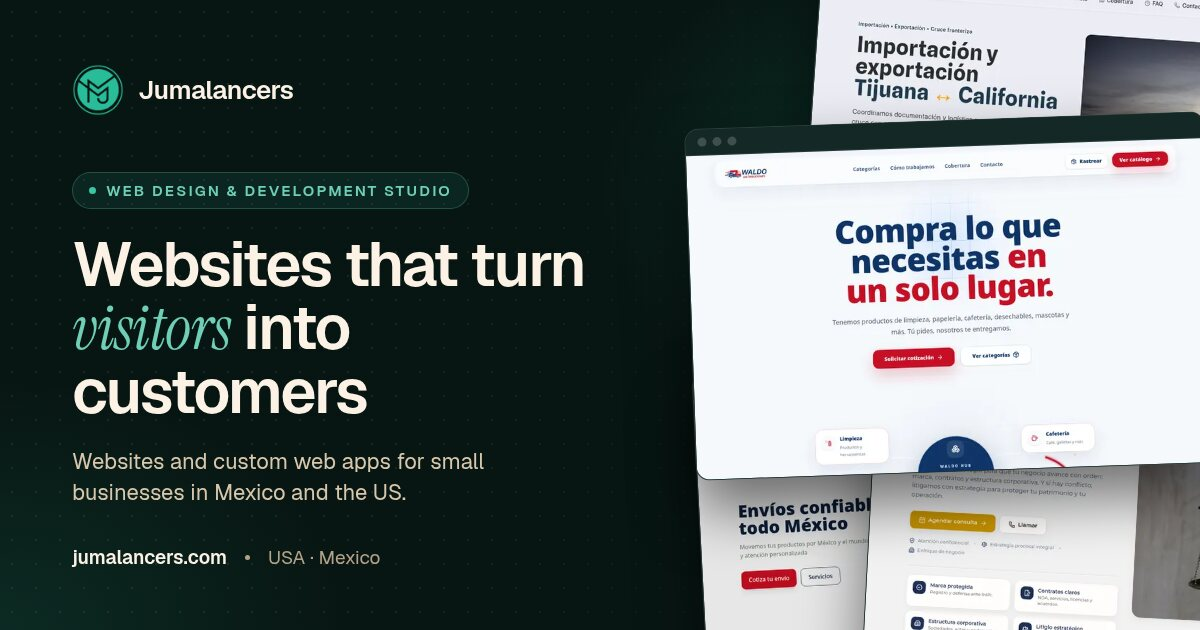
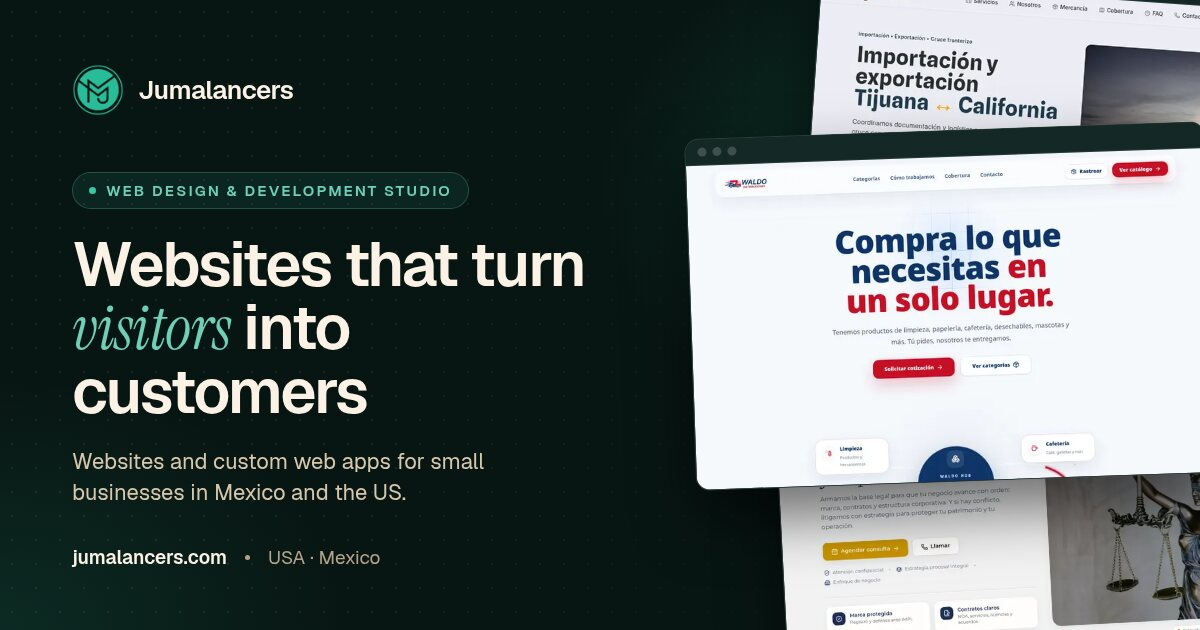
Quitar TodoMex del portafolio, casos de estudio e imagen para compartir

Changed region(s): [[0.555, 0.6635, 1.0, 1.0], [0.555, 0.0, 1.0, 0.3016], [0.6783, 0.3317, 0.8942, 0.6333]]

diff --git a/src/data/pages/services.js b/src/data/pages/services.js
@@ -125,7 +125,7 @@ export const SERVICES = {
 
   landing: {
     icon: "MousePointerClick",
-    project: "todomex",
+    project: "jaka",
     es: {
       metaTitle: "Landing pages para campañas de Google y Meta | Jumalancers",
       metaDesc:
@@ -167,7 +167,7 @@ export const SERVICES = {
       ],
       price:
         "La landing page es el plan Starter: $599 USD, precio fijo, con dominio, hosting y SSL del primer año. Renovación desde el segundo año: $99 USD al año con 2 cambios incluidos.",
-      projectNote: "Sitio de paquetería con un formulario de envío por pasos y contacto directo por WhatsApp.",
+      projectNote: "Sitio para una empresa de importación y exportación que lleva al visitante directo a pedir su cotización, con un formulario que llega por correo.",
       faqs: [
         {
           q: "¿Qué diferencia hay entre una landing page y una página web?",
@@ -224,7 +224,7 @@ export const SERVICES = {
       ],
       price:
         "A landing page is the Starter plan: $599 USD, fixed price, with domain, hosting and SSL for the first year. Renewal from the second year: $99 USD a year with 2 updates included.",
-      projectNote: "Parcel delivery website with a step-by-step shipping form and direct WhatsApp contact.",
+      projectNote: "Website for an import/export company that takes visitors straight to a quote request, with a form delivered by email.",
       faqs: [
         {
           q: "What's the difference between a landing page and a website?",
@@ -813,4 +813,4 @@ export const PAGE_UI = {
 };
 
 // Servicio relacionado de cada proyecto (para enlazar casos ↔ servicios).
-export const PROJECT_SERVICE = { jmyan: "bilingual", jaka: "websites", waldo: "systems", todomex: "landing" };
+export const PROJECT_SERVICE = { jmyan: "bilingual", jaka: "websites", waldo: "systems" };

diff --git a/src/data/projects.js b/src/data/projects.js
@@ -152,34 +152,7 @@ export const PROJECTS = [
       en: ["Product catalog with categories and search", "Protected admin dashboard", "Quotes, orders and inventory", "Clients, suppliers and expenses", "Barcode labels and order tracking"],
     },
   },
-  {
-    id: "todomex",
-    name: "TodoMex Paquetería",
-    url: "https://todomexpaqueteria.com",
-    market: "mx",
-    industry: { es: "Paquetería nacional", en: "Parcel delivery" },
-    location: "Tijuana, BC",
-    featured: true,
-    kind: "site",
-    stack: ["HTML", "Tailwind CSS", "JavaScript", "EmailJS"],
-    year: 2025,
-    before: {
-      es: "No tenían página web.",
-      en: "They didn't have a website.",
-    },
-    result: {
-      es: "Desde que tienen su página, más clientes los contactan directamente desde el sitio y por correo.",
-      en: "Since the website launched, more customers contact them directly through the site and by email.",
-    },
-    summary: {
-      es: "Sitio corporativo para una paquetería con envíos a todo México, con un cotizador por pasos para que el cliente solicite su envío en segundos.",
-      en: "Corporate website for a parcel company shipping across Mexico, with a step-by-step quote form so customers can request a shipment in seconds.",
-    },
-    features: {
-      es: ["Formulario de envío por pasos", "Contacto directo por WhatsApp", "Servicios de paquetería explicados", "Diseño responsivo"],
-      en: ["Step-by-step shipping form", "Direct WhatsApp contact", "Clear breakdown of shipping services", "Responsive design"],
-    },
-  },
+
 ];
 
 export const shot = (id, variant = "desktop") => `/work/${id}-${variant}.webp`;

diff --git a/src/seo.js b/src/seo.js
@@ -47,7 +47,6 @@ const PROJECT_TITLES = {
   jmyan: { es: "JM & AN Abogados: página web bilingüe para despacho legal", en: "JM & AN Abogados: bilingual website for a law firm" },
   jaka: { es: "Jaka Express: página web para empresa de logística en Tijuana", en: "Jaka Express: website for a cross-border logistics company" },
   waldo: { es: "Waldo Distribuciones: catálogo en línea y sistema web a medida", en: "Waldo Distribuciones: online catalog and custom web app" },
-  todomex: { es: "TodoMex Paquetería: página web con formulario de envíos", en: "TodoMex Paquetería: website with a shipping request form" },
 };
 
 const clip = (t, n = 158) => (t.length <= n ? t : t.slice(0, t.lastIndexOf(" ", n - 1)).replace(/[,;:]$/, "") + "…");

diff --git a/src/routes.js b/src/routes.js
@@ -17,7 +17,6 @@ export const PROJECT_SLUGS = {
   jmyan: "jm-an-abogados",
   jaka: "jaka-express",
   waldo: "waldo-distribuciones",
-  todomex: "todomex-paqueteria",
 };
 
 export const PAGES = [
